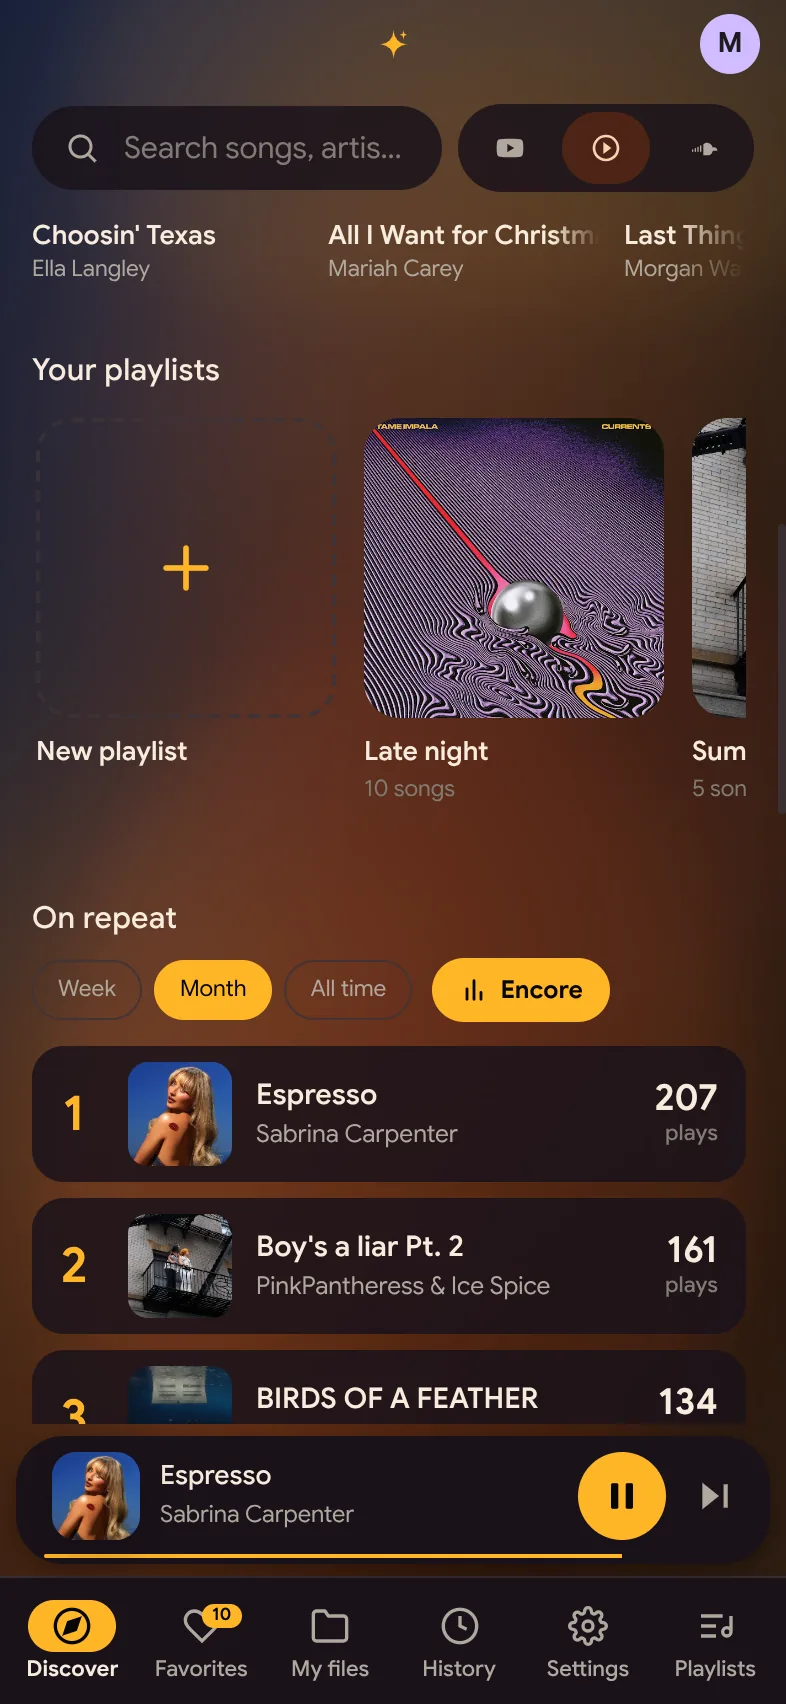
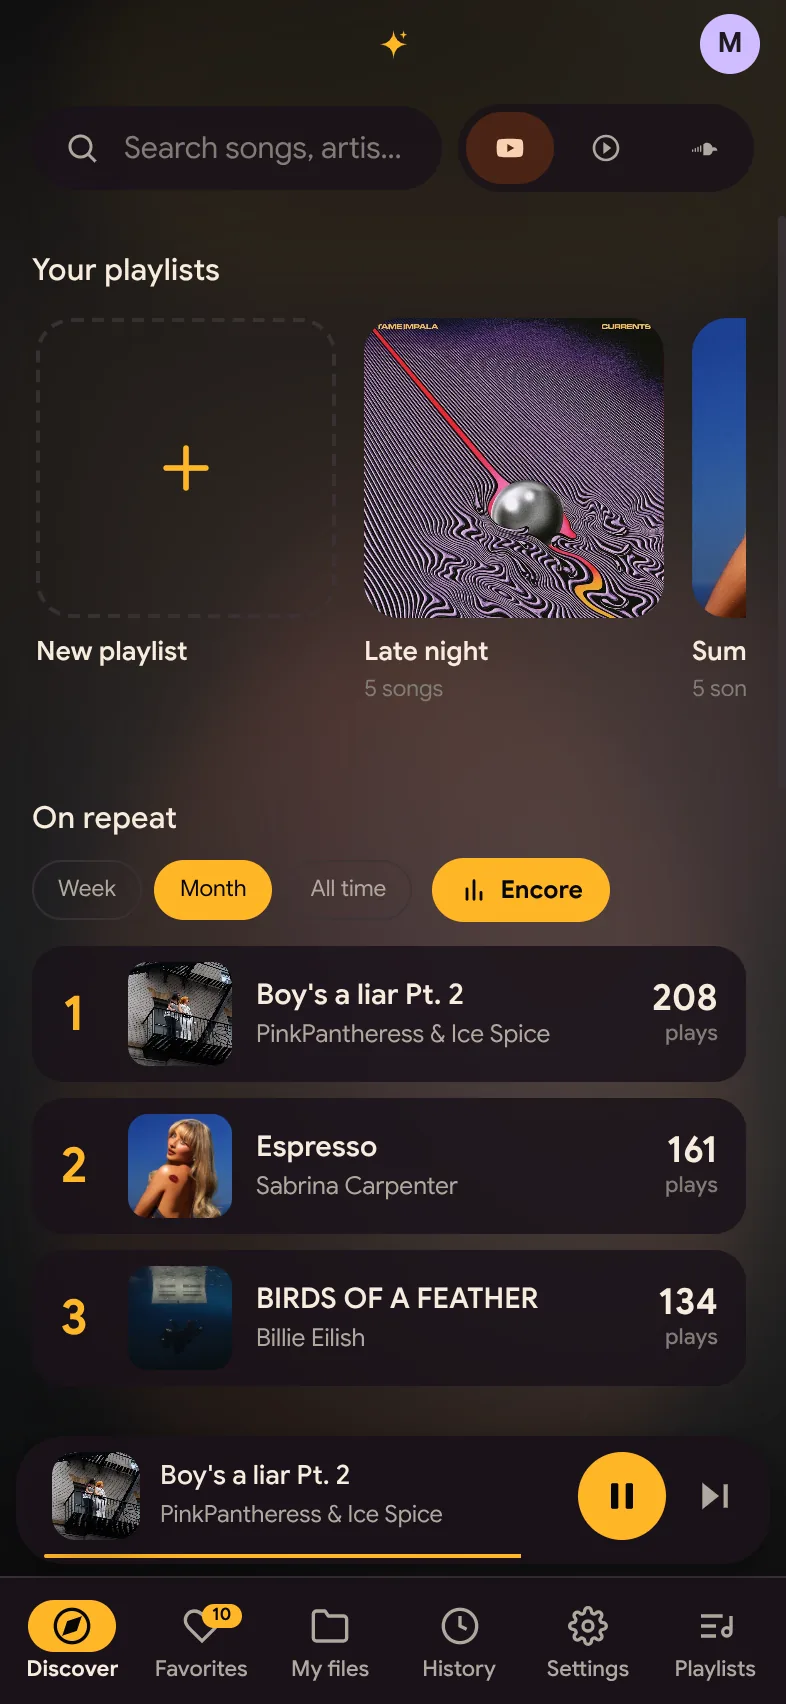
Fix the phone screens on the site squeezing on wide windows, and retake On repeat

diff --git a/site/style.css b/site/style.css
@@ -23,6 +23,7 @@
   --seg-bg: #2c2c2e;
   --seg-on: #48484a;
   --copy-hover: #2c2c2e;
+  --phone: #1c1c1e;
   --font: -apple-system, BlinkMacSystemFont, "SF Pro Display", "SF Pro Text", "Inter", "Helvetica Neue", "Segoe UI", Arial, sans-serif;
   --mono: ui-monospace, "SF Mono", Menlo, Consolas, monospace;
   --ease: cubic-bezier(0.28, 0.11, 0.32, 1);
@@ -47,6 +48,7 @@
   --seg-bg: #e3e3e8;
   --seg-on: #fff;
   --copy-hover: #ebebef;
+  --phone: #0b0b0c;
 }
 
 * { box-sizing: border-box; }
@@ -138,12 +140,13 @@ b { font-weight: 600; }
 .hero-stage .phone.right { left: 50%; transform: translateX(calc(-50% + clamp(190px, 26vw, 290px))) rotate(6deg); }
 .hero-stage .phone.main { margin-bottom: -60px; }
 
-/* an iPhone, drawn: black frame, rounded screen */
+/* an iPhone, drawn: black frame, rounded screen. The screen is placed with inset, not padding: a padding in %
+   is a share of the parent's width, which made the frame thicker the wider the window and squeezed the screen. */
 .phone {
-  aspect-ratio: 393 / 852; padding: 3.2%; border-radius: 15% / 7%;
-  background: #0b0b0c; box-shadow: inset 0 0 0 1.5px #3a3a3c, 0 30px 60px -10px rgba(0, 0, 0, 0.35), 0 12px 24px -12px rgba(0, 0, 0, 0.25);
+  position: relative; aspect-ratio: 393 / 852; border-radius: 15% / 7%;
+  background: var(--phone); box-shadow: inset 0 0 0 1.5px #3a3a3c, 0 30px 60px -10px rgba(0, 0, 0, 0.35), 0 12px 24px -12px rgba(0, 0, 0, 0.25);
 }
-.phone img { width: 100%; height: 100%; object-fit: cover; border-radius: 12.5% / 5.8%; }
+.phone img { position: absolute; top: 3.2%; left: 3.2%; width: 93.6%; height: 93.6%; object-fit: cover; border-radius: 12.5% / 5.8%; }
 .dark .phone { box-shadow: inset 0 0 0 1.5px #4a4a4e, 0 30px 80px -20px rgba(0, 0, 0, 0.8); }
 
 /* ---------- the counter (black) ---------- */
